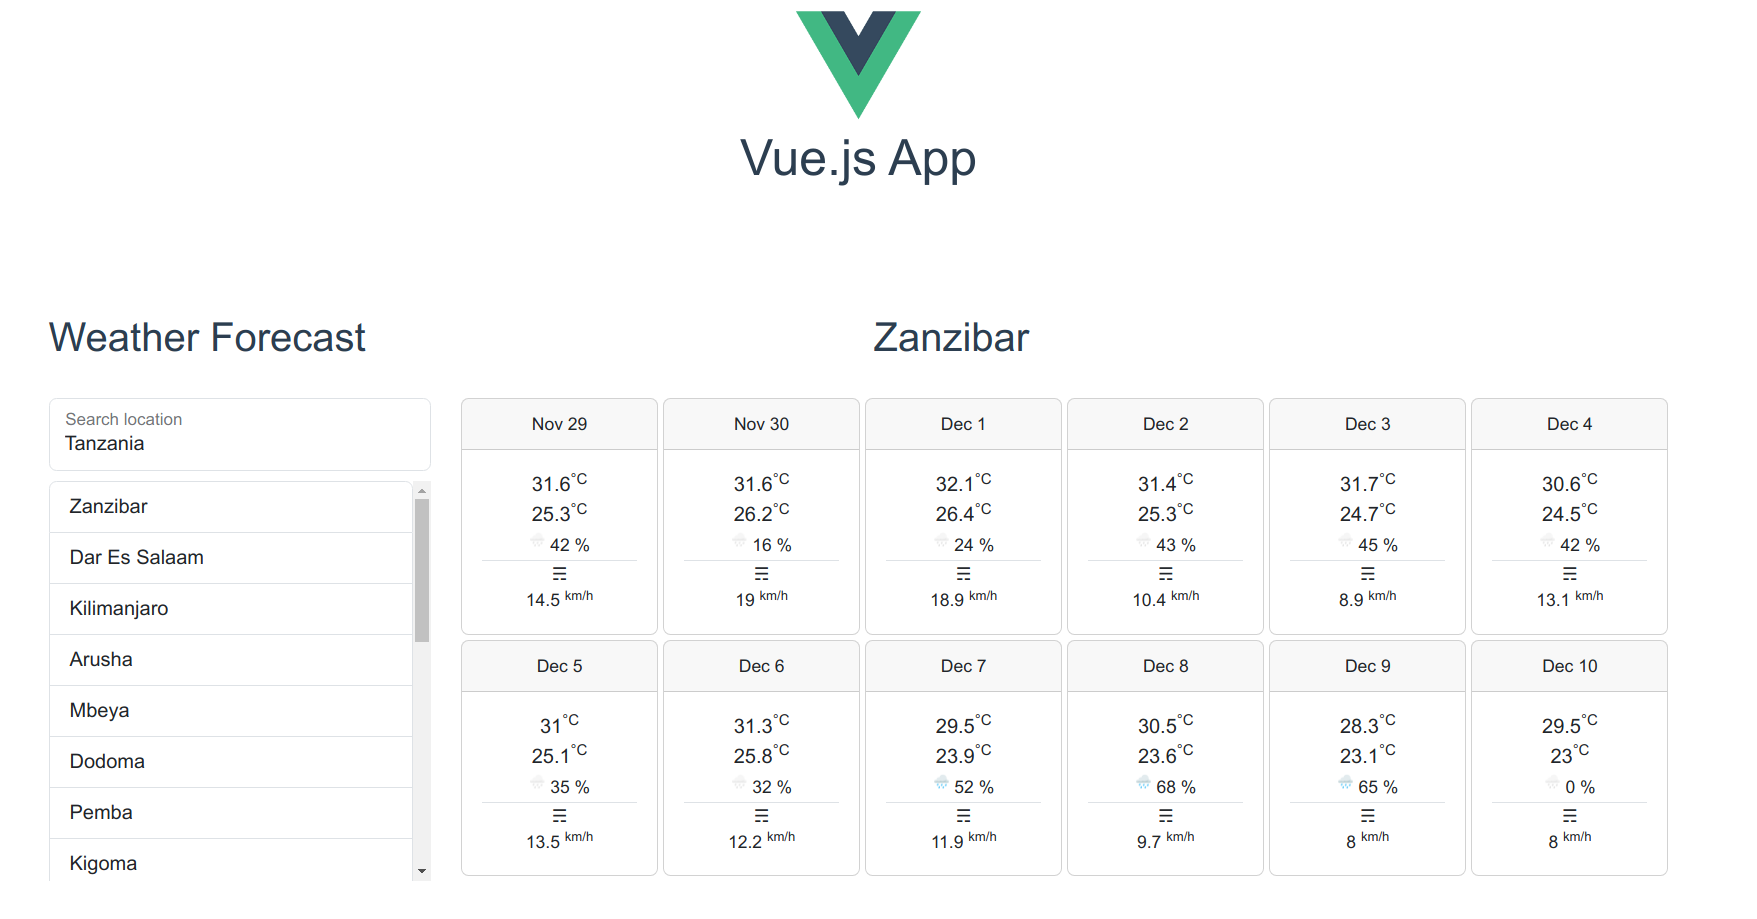
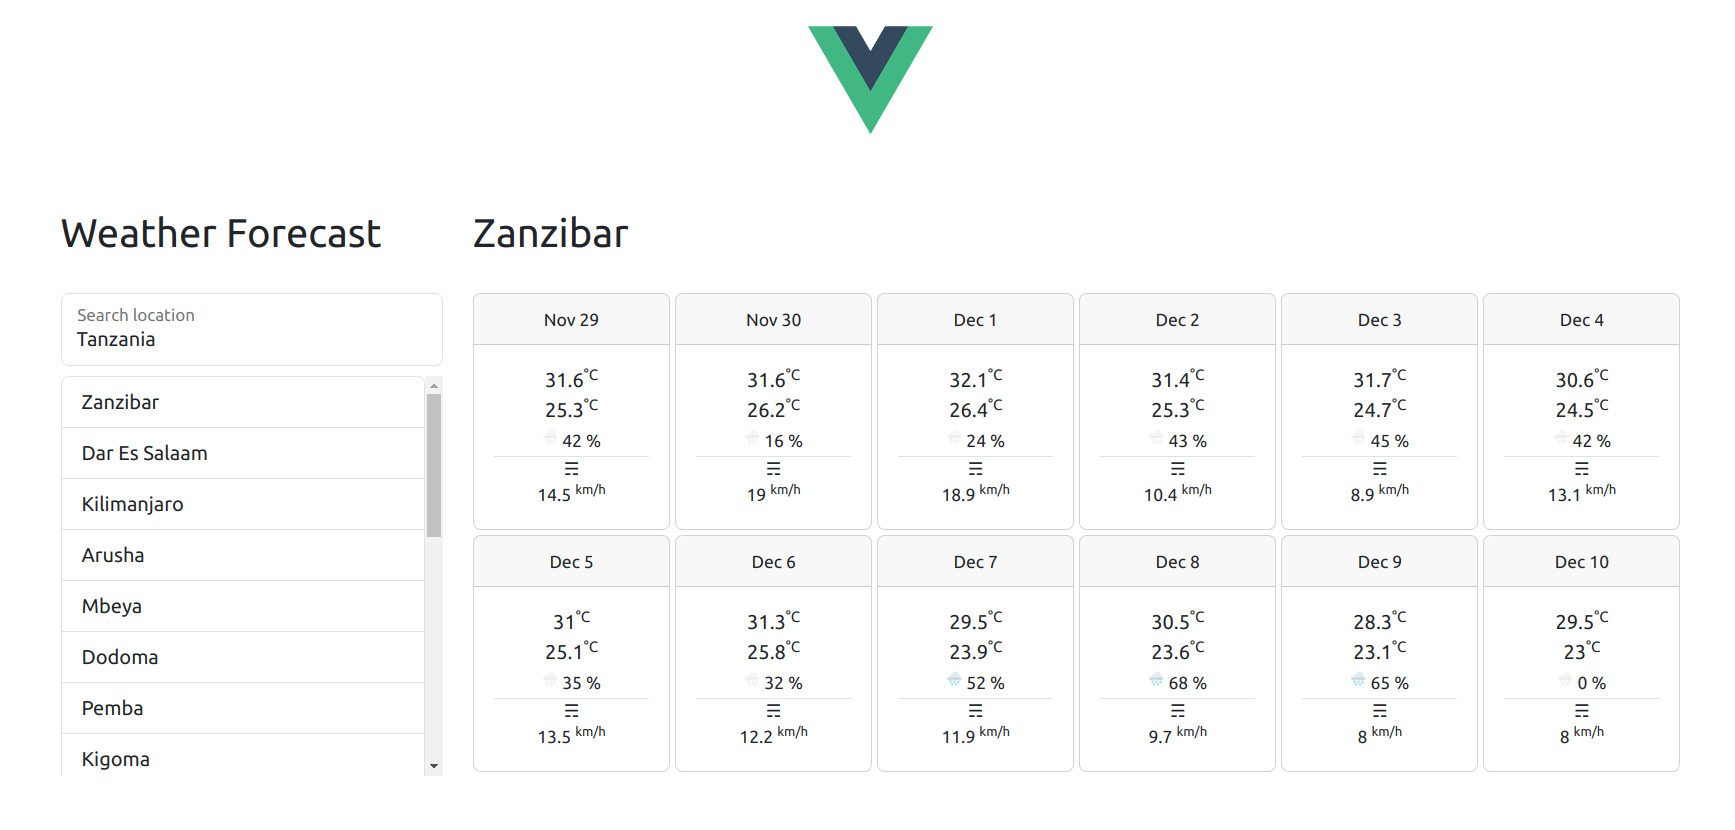
Third commit

diff --git a/frontend_vuejs/src/App.vue b/frontend_vuejs/src/App.vue
@@ -2,28 +2,22 @@
   <div id="app">
 
     <div class="text-center">
-    <img alt="Vue logo" width="100" src="./assets/logo.png">
-
-    <HelloWorld msg="Vue.js App"/>
+      <img alt="Vue logo" width="100" src="./assets/logo.png">
     </div>
 
-
-    <div class="px-5 py-5 my-5">
+    <div class="px-5 my-5">
       <WeatherForecast/>
     </div>
-
 
   </div>
 </template>
 
 <script>
-import HelloWorld from './components/HelloWorld.vue'
 import WeatherForecast from './components/WeatherForecast.vue'
 
 export default {
   name: 'App',
   components: {
-    HelloWorld,
     WeatherForecast,
   }
 }
@@ -31,10 +25,6 @@ export default {
 
 <style>
 #app {
-  font-family: Avenir, Helvetica, Arial, sans-serif;
-  -webkit-font-smoothing: antialiased;
-  -moz-osx-font-smoothing: grayscale;
-  color: #2c3e50;
-  margin-top: 60px;
+  margin-top: 20px;
 }
 </style>

diff --git a/frontend_vuejs/src/components/WeatherForecast.vue b/frontend_vuejs/src/components/WeatherForecast.vue
@@ -1,8 +1,8 @@
 <template>
 
   <div id="weather-forecast" class="container">
-    <div class="row row-cols-md-2">
-      <div class="col fs-2">Weather Forecast</div>
+    <div class="row">
+      <div class="col-3 fs-2">Weather Forecast</div>
       <div class="col fs-2">{{ location.name }}</div>
     </div>
     <div class="row mt-4">
@@ -29,7 +29,7 @@
       <div class="col-md-9">
         <div v-if="weather">
           <div class="row g-1">
-            <div class="col-4 col-md-3 col-lg-2" v-for="data in weather.slice(0, 12)" :key="data.time">
+            <div class="col-6 col-md-3 col-lg-2" v-for="data in weather" :key="data.time">
               <div class="card text-center">
                 <div class="card-header">
                   <small>{{ formatDate(data.time) }}</small>

diff --git a/README.md b/README.md
@@ -1,8 +1,11 @@
 # FastAPI + Vue app
 
 > ## Disclaimer
+> 
 > This is a playground app, not suitable for production environment
-> It is designed for those who need a boilerplate for FastApi + Vue.js development.
+> 
+> Designed for those who need a boilerplate for FastApi + Vue.js development.
+
 
 An example app using FastAPI as backend and Vue.js as frontend. You can use it to create subapps or components
 Just create a FastAPI endpoint (if needed) and a Vue component.
